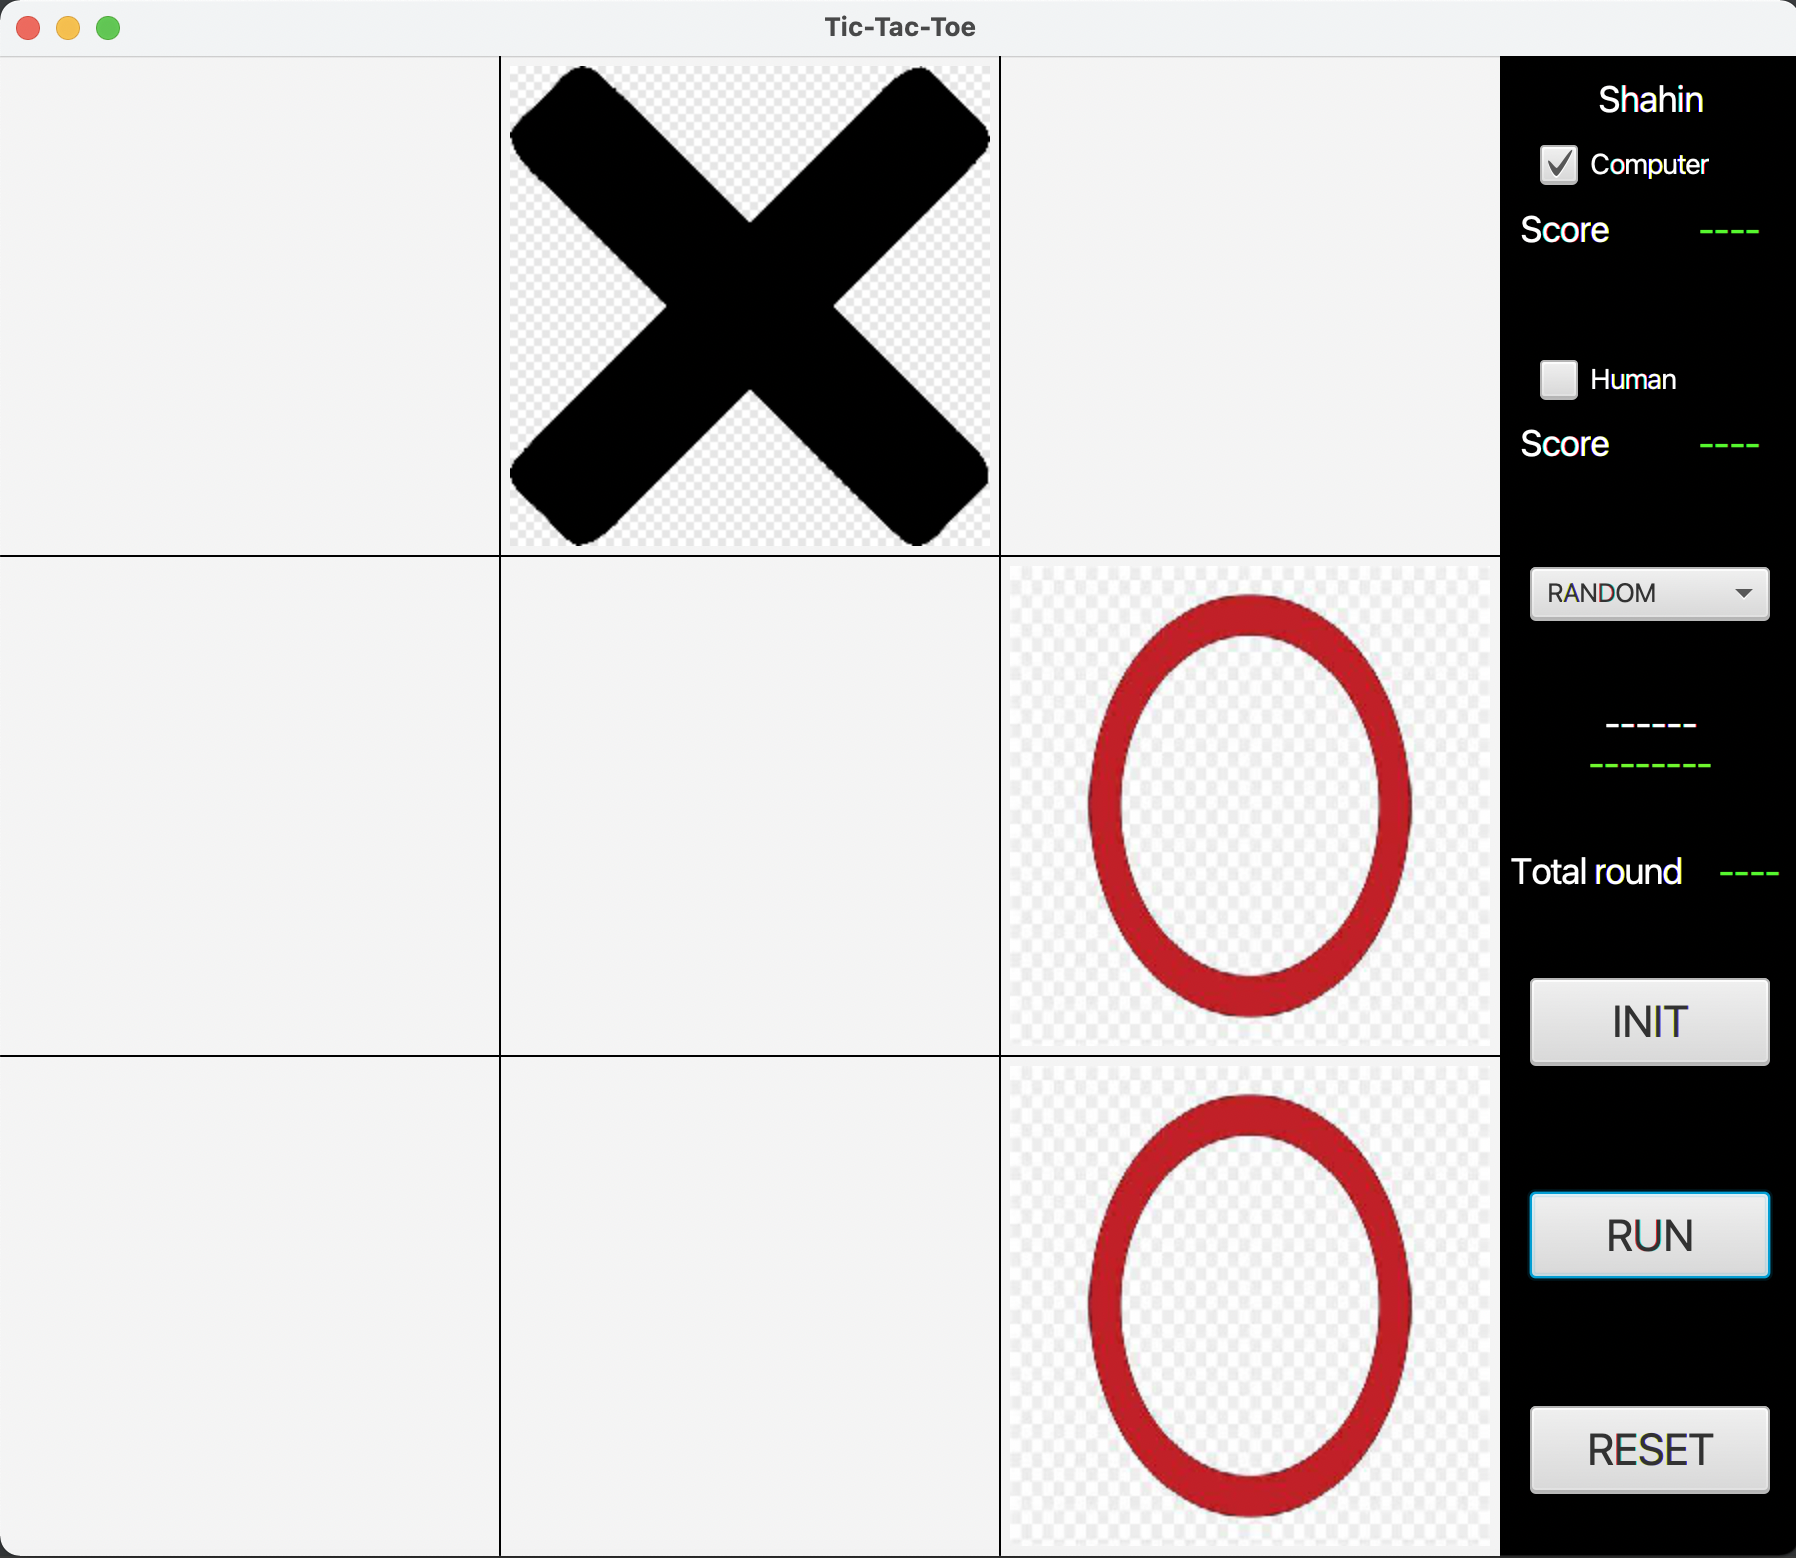
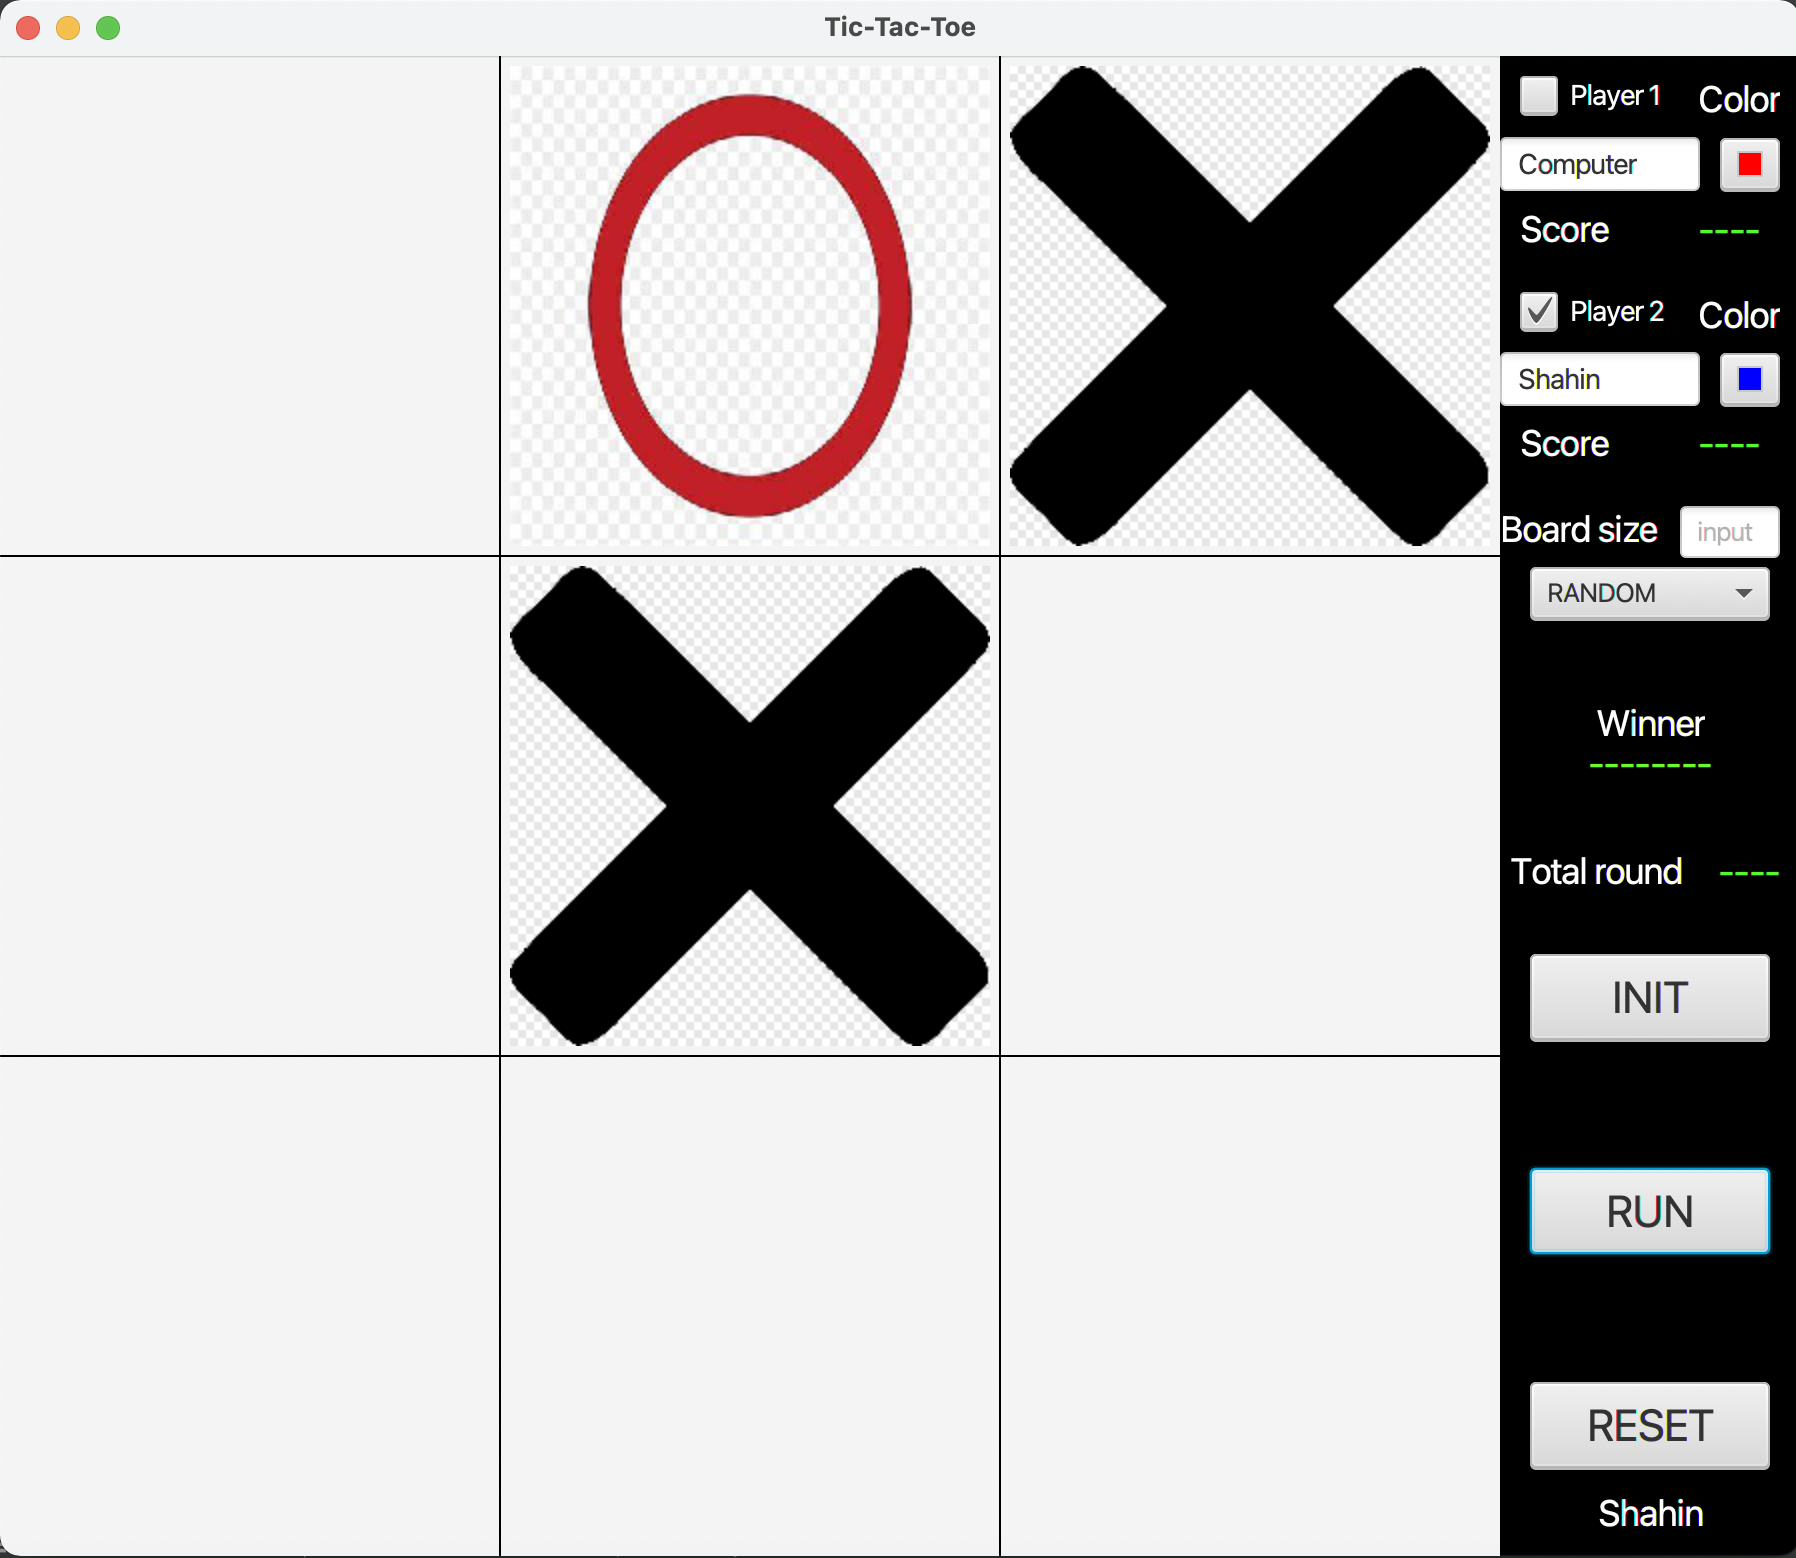
update UI

diff --git a/TpTicTacToeFx/src/main/java/com/example/tptictactoefx/Controller.java b/TpTicTacToeFx/src/main/java/com/example/tptictactoefx/Controller.java
@@ -9,9 +9,7 @@ import javafx.collections.FXCollections;
 import javafx.fxml.FXML;
 import javafx.scene.canvas.Canvas;
 import javafx.scene.canvas.GraphicsContext;
-import javafx.scene.control.CheckBox;
-import javafx.scene.control.ComboBox;
-import javafx.scene.control.Label;
+import javafx.scene.control.*;
 import javafx.scene.input.MouseEvent;
 
 import java.util.Arrays;
@@ -30,6 +28,23 @@ public class Controller {
     private  Label winner;
     private GraphicsContext gc;
     private Game game;
+
+    @FXML
+    private  Label score_computer;
+    @FXML
+    private  Label score_human;
+    @FXML
+    private  Label total_round;
+    @FXML
+    private ColorPicker color_computer;
+    @FXML
+    private ColorPicker color_player;
+    @FXML
+    private TextField nameplayerone;
+    @FXML
+    private TextField nameplayertwo;
+    @FXML
+    private TextField sizeboard;
     public Controller(){
 
     }
